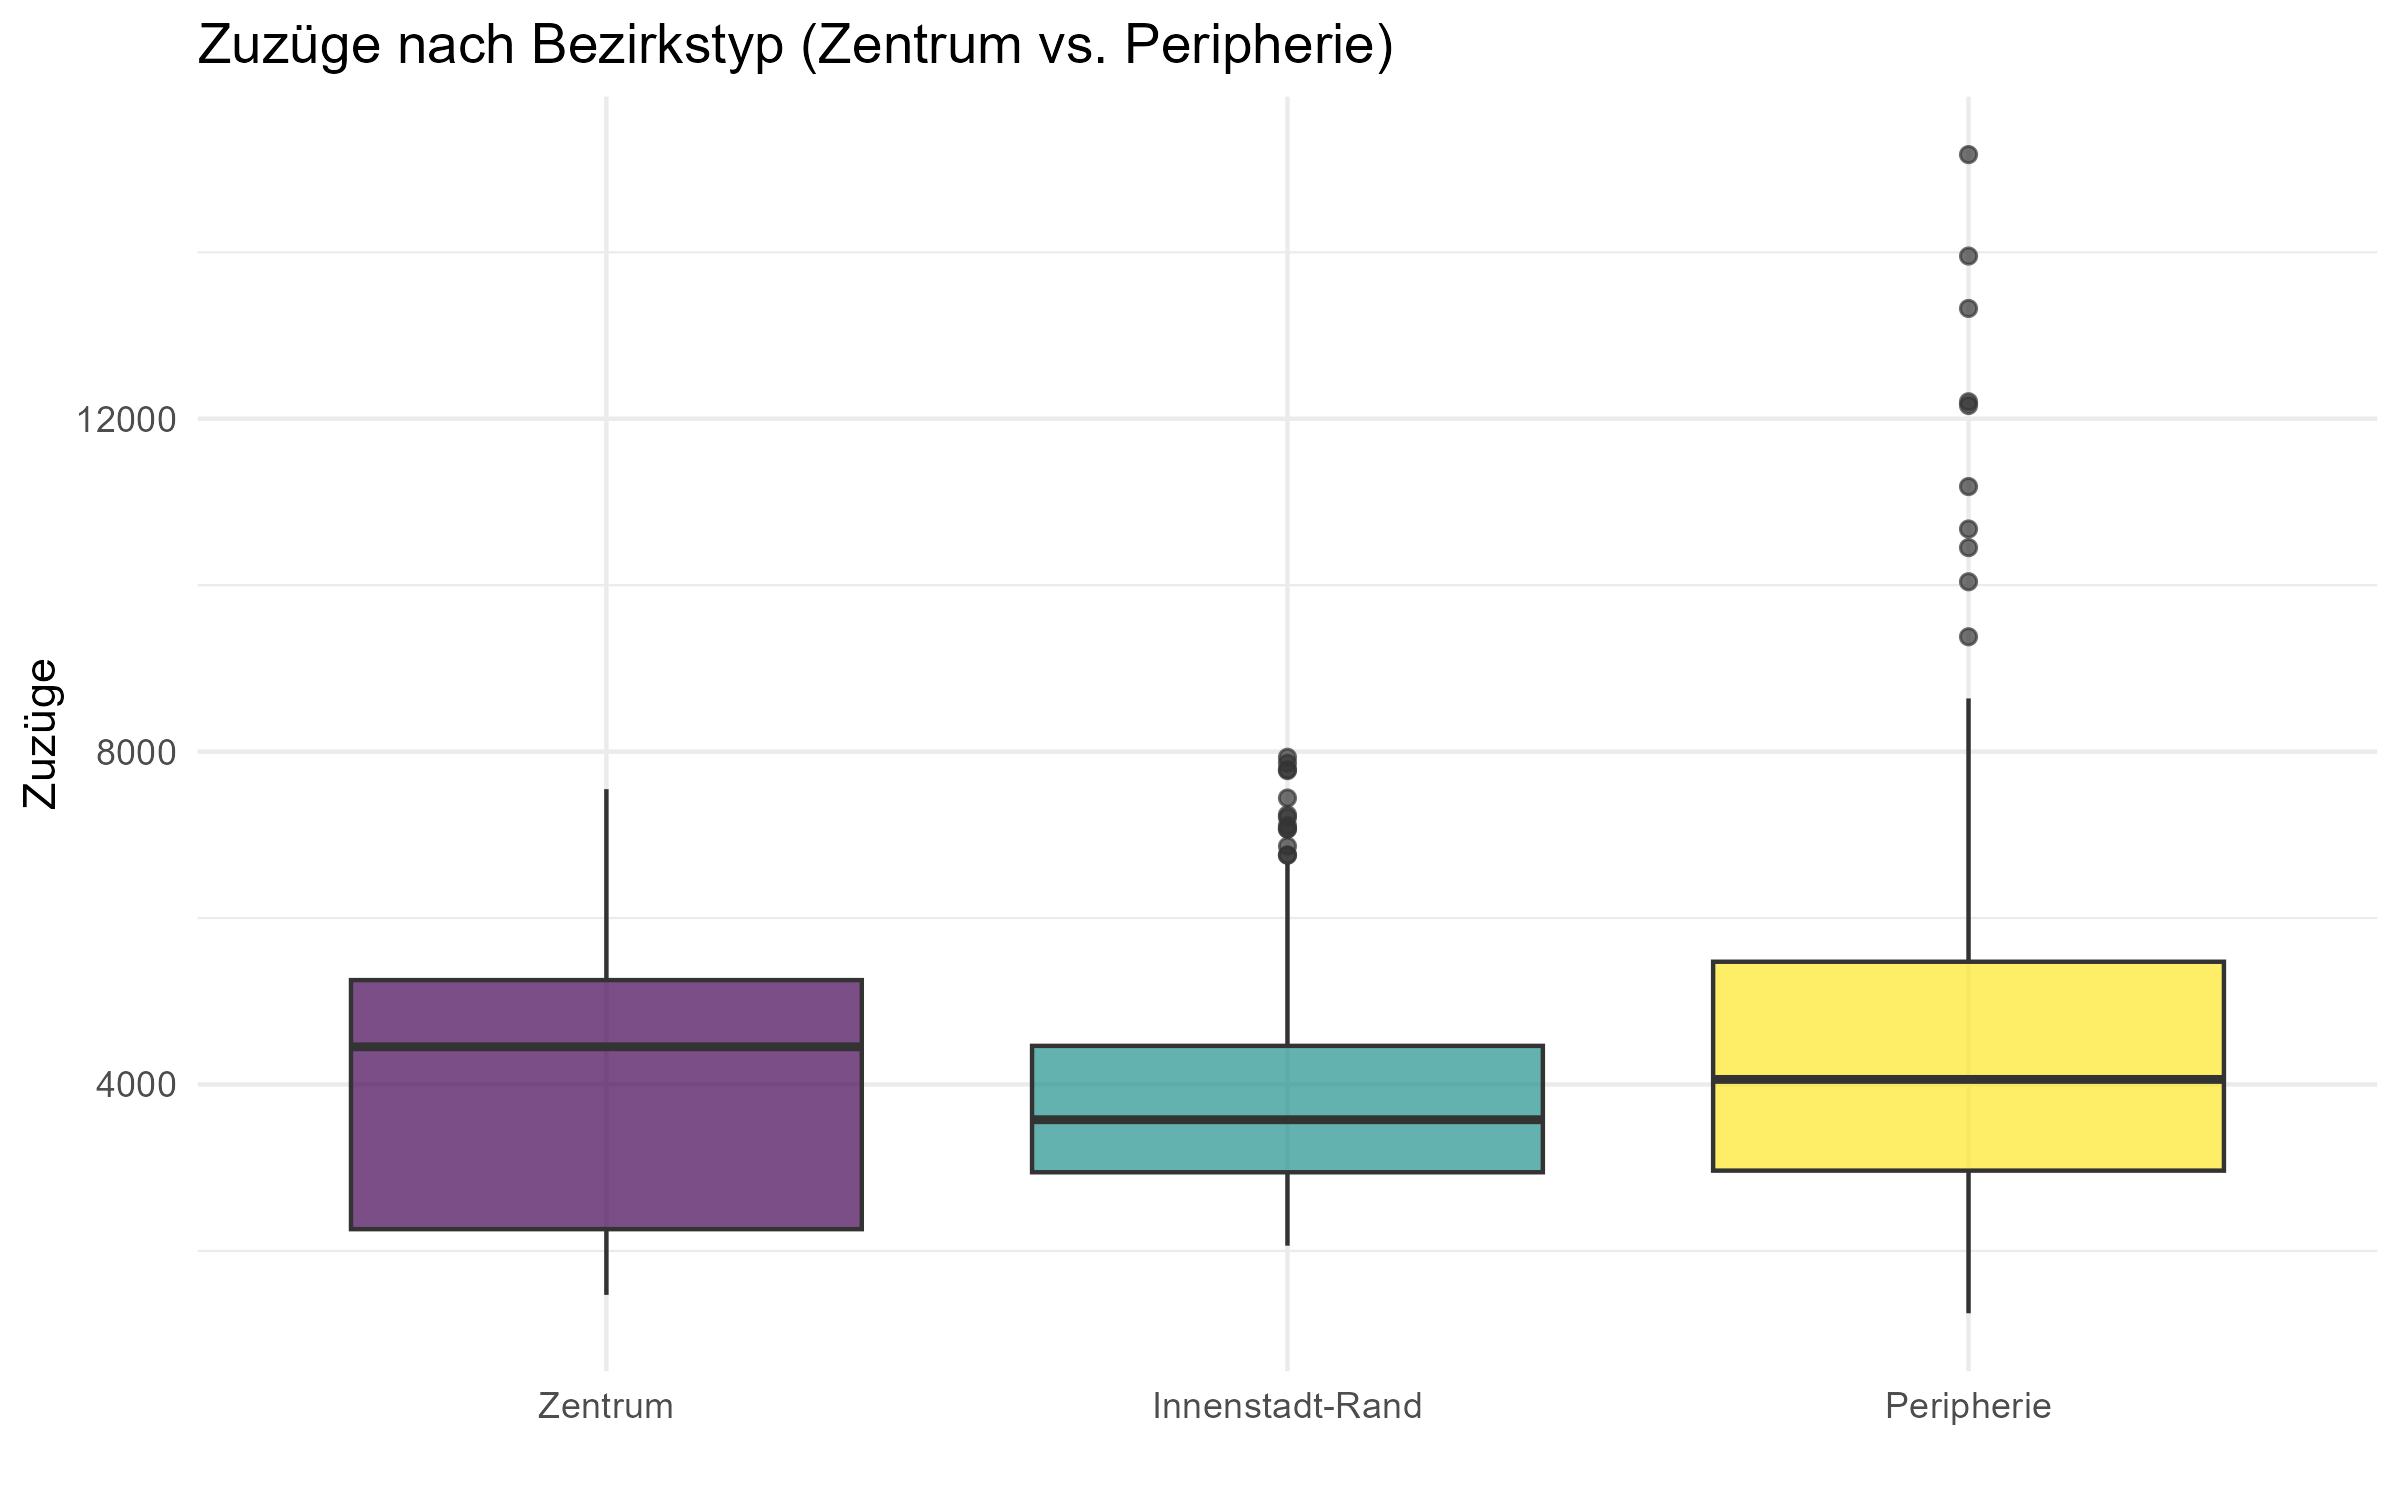
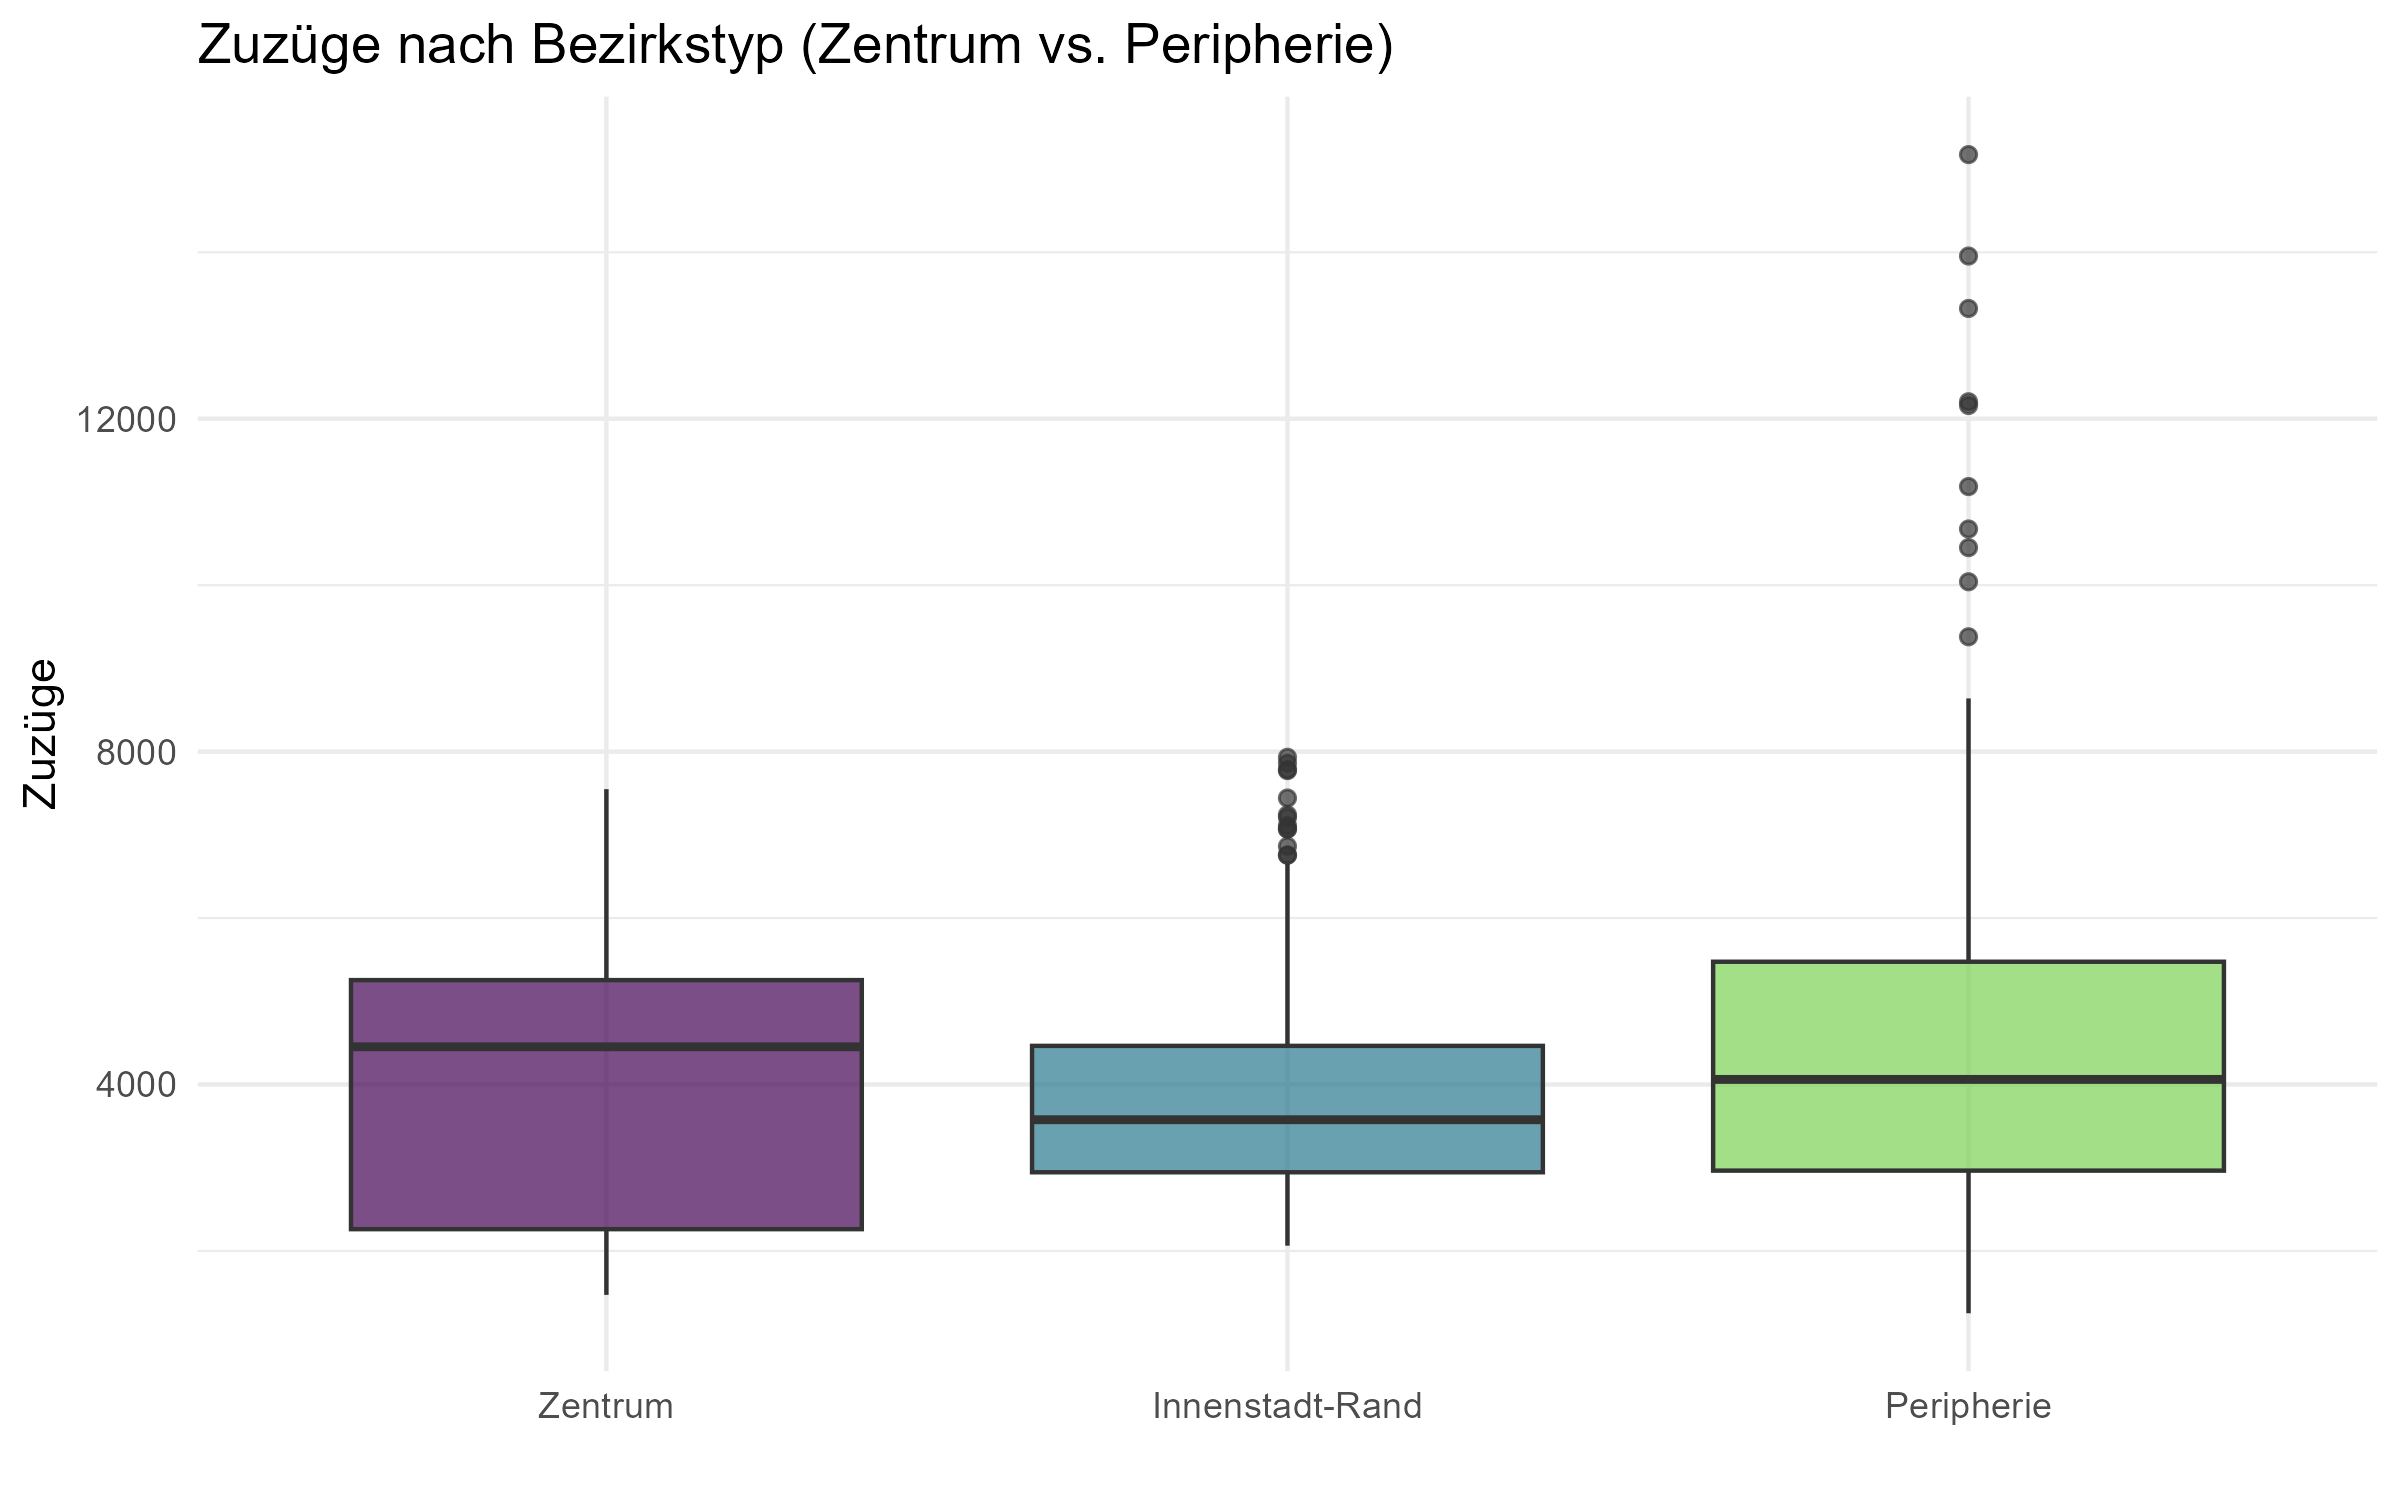
Zusammenfassung überarbeitet und Umzüge verschoben

Changed region(s): [[0.6875, 0.644, 0.9375, 0.7973]]

diff --git a/presentation.html b/presentation.html
@@ -128,7 +128,7 @@
 
 <section id="title-slide" data-background-image="Output/PresentationBilder/lmu_siegel.jpg" data-background-opacity="0.5" data-background-size="cover" class="quarto-title-block center">
   <h1 class="title">Wohnungsmigration in München</h1>
-  <p class="subtitle">31.03.2026 | Betreuer: Christina Sauer</p>
+  <p class="subtitle">31.03.2026 | Betreuerin: Christina Sauer</p>
 
 <div class="quarto-title-authors">
 <div class="quarto-title-author">
@@ -262,14 +262,6 @@ Heinz Calderón, Christian Lex, Dennis Ley, Haoyang Yang
 <h2>Zuzüge</h2>
 
 <img data-src="presentation_files/figure-revealjs/plot_zuzuege_highlight-1.png" class="quarto-figure quarto-figure-center r-stretch" width="2100"></section>
-<section id="umzüge" class="slide level2">
-<h2>Umzüge</h2>
-
-<img data-src="presentation_files/figure-revealjs/plot_umzuege-1.png" class="quarto-figure quarto-figure-center r-stretch" width="2100"></section>
-<section id="umzüge-1" class="slide level2">
-<h2>Umzüge</h2>
-
-<img data-src="presentation_files/figure-revealjs/plot_umzuege_highlight-1.png" class="quarto-figure quarto-figure-center r-stretch" width="2100"></section>
 <section id="agenda-2" class="slide level2">
 <h2>Agenda</h2>
 <ol type="1">
@@ -287,6 +279,14 @@ Heinz Calderón, Christian Lex, Dennis Ley, Haoyang Yang
 <h2>Wegzüge</h2>
 
 <img data-src="presentation_files/figure-revealjs/plot_wegzuege-1.png" class="quarto-figure quarto-figure-center r-stretch" width="2100"></section>
+<section id="wegzüge-1" class="slide level2">
+<h2>Wegzüge</h2>
+
+<img data-src="presentation_files/figure-revealjs/plot_umzuege-1.png" class="quarto-figure quarto-figure-center r-stretch" width="2100"></section>
+<section id="wegzüge-2" class="slide level2">
+<h2>Wegzüge</h2>
+
+<img data-src="presentation_files/figure-revealjs/plot_umzuege_highlight-1.png" class="quarto-figure quarto-figure-center r-stretch" width="2100"></section>
 <section id="agenda-3" class="slide level2">
 <h2>Agenda</h2>
 <ol type="1">
@@ -331,16 +331,12 @@ Heinz Calderón, Christian Lex, Dennis Ley, Haoyang Yang
 </section>
 <section id="zusammenfassung" class="slide level2">
 <h2>Zusammenfassung</h2>
-<p><strong>Limitation</strong>: Daten ab Jahr 2000 zur Analyse verfügbar</p>
-<p><strong><em>Deutsche Staatsangehörige</em></strong>: Weitestgehend stabiles Niveau mit leicht degressiver Tendenz.<br>
-<strong>Nicht-deutsche Staatsangehörige</strong>: Hohe Volatilität bei gleichzeitigem Anstieg des durchschnittlichen Zuzugsniveaus.<br>
-<strong>Wegzüge</strong>: Höhere Abwanderungsdynamik (binnen und außen) in der Peripherie im Vergleich zu zentralen Lagen.</p>
-</section>
-<section id="zusammenfassung-1" class="slide level2">
-<h2>Zusammenfassung</h2>
-<p>*<strong>Trend-Konsistenz</strong>: Gleichbleibendes Verteilungsmuster bei Umzügen innerhalb Münchens und Fortzügen aus der Stadt.<br>
-<strong>Bevölkerungswachstum</strong>: Kontinuierlicher Anstieg in der Peripherie bei gleichzeitiger Stagnation im Zentrum und Innenstadt-Rand.<br>
-<strong>Besiedlungsdichte</strong>: Flächendeckender Anstieg der Einwohner pro <span class="math inline">\(km^2\)</span> über den gesamten Untersuchungszeitraum.</p>
+<p><strong>Limitation</strong>: Daten basieren auf drei Datasets ab Jahr 2000</p>
+<ol type="1">
+<li><p>Entwicklung der Zuzüge der 25 Münchner Stadtbezirke (Deutsch vs.&nbsp;Nichtdeutsch)</p></li>
+<li><p>Entwicklung der Wegzüge der 25 Münchner Stadtbezirke (Innen vs.&nbsp;Außen)</p></li>
+<li><p>Entwicklung der Bevölkerungsdichte <br> (Einwohner pro <span class="math inline">\(km^2\)</span>)</p></li>
+</ol>
 </section>
 <section id="ausblick" class="slide level2">
 <h2>Ausblick</h2>
@@ -351,6 +347,9 @@ Heinz Calderón, Christian Lex, Dennis Ley, Haoyang Yang
 <li><p><strong>Münchener Nordosten</strong>: ab 2030 neues Zukunftsquartier für bis zu 30.000 Menschen</p></li>
 </ul>
 <p><strong>Herausforderungen</strong>: Trotz dieser Bemühungen ist der Immobilienmarkt sehr angespannt. <strong>Steigende Baukosten</strong>, <strong>hohe Zinsen</strong>, <strong>komplizierte Vorschriften</strong> und <strong>Fachkräftemangel</strong> führen zu langsame Umsetzung.</p>
+<div style="font-size: 0.4em; color: grey; text-align: left;">
+<p>Quelle: <a href="https://stadt.muenchen.de/rathaus/projekte/stadtplanung.html">muenchen.de</a>, <a href="https://www.bayerische-staatszeitung.de/staatszeitung/bauen/detailansicht-bauen/artikel/16-900-wohnungen-fehlen.html#topPosition">BZS</a></p>
+</div>
 
 </section>
     </div>
